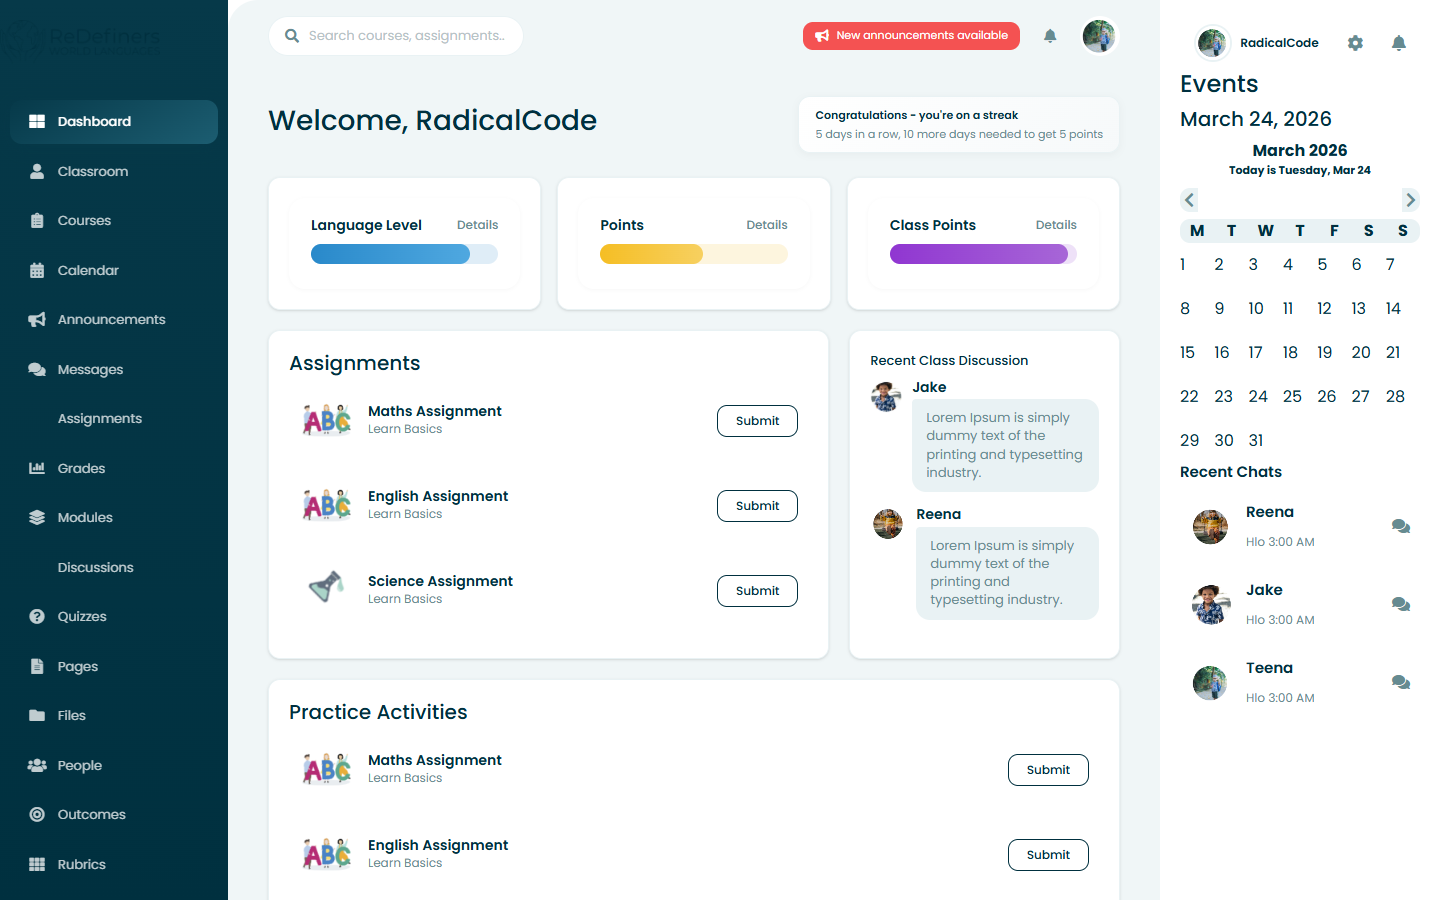
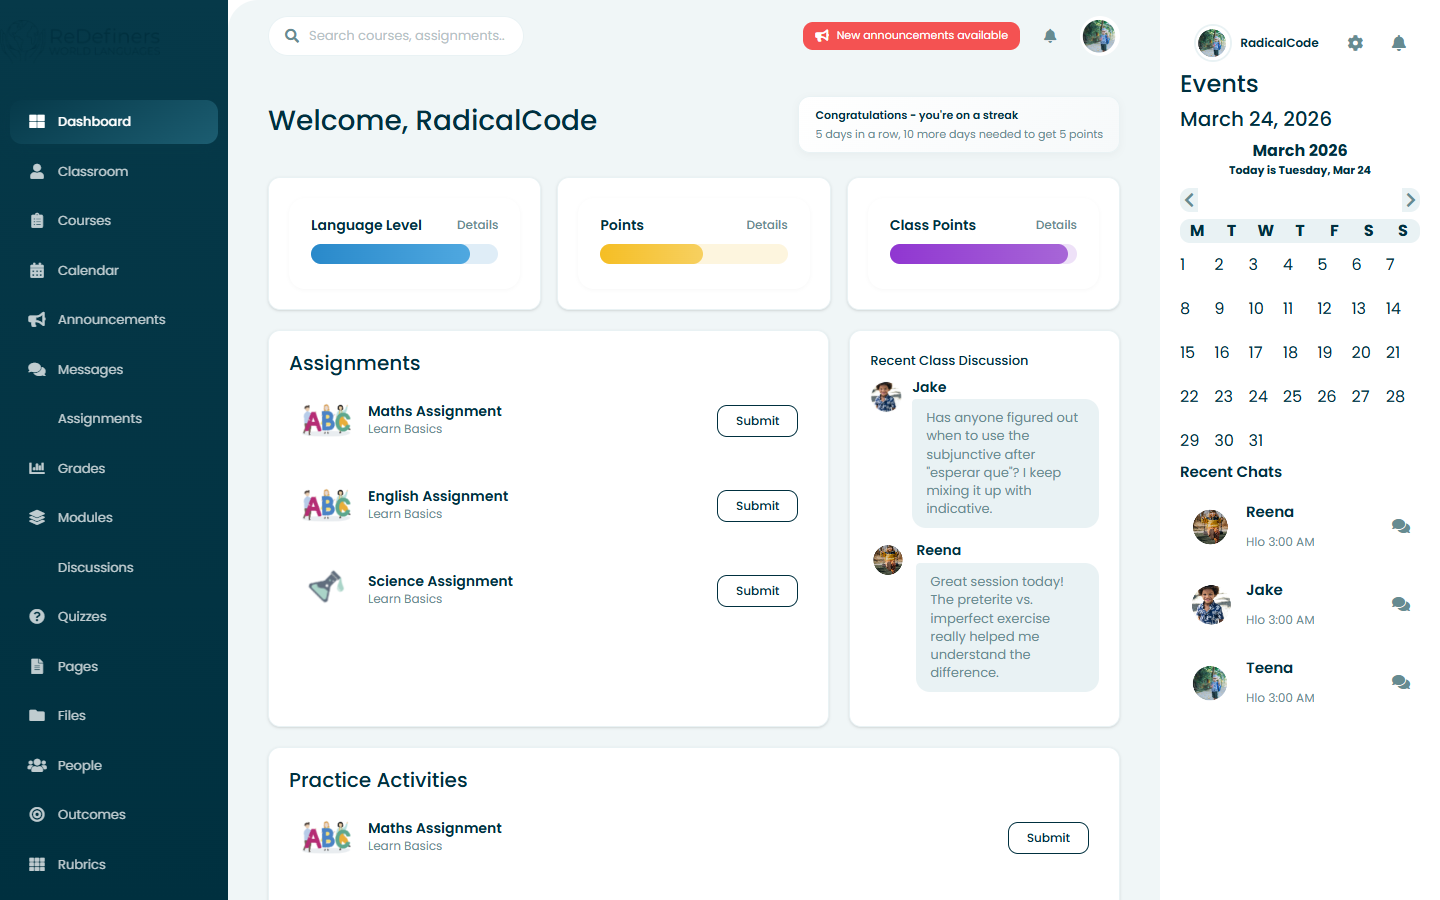
Replace lorem ipsum with meaningful Spanish course content
- Announcements: real course messages (midterm schedule, tutoring,
  guest speaker, grades posted, spring break, study groups, rubric)
- Dashboard discussions: Spanish grammar questions and study tips
- Classroom discussions: listening notes, vocab flashcards, oral exam prep

diff --git a/announcement.html b/announcement.html
@@ -204,13 +204,13 @@
 					</thead>
 					<tr class="table-tr table-tr1">
 						<td class="table-td table-td1" data-label="Message">
-							Lorem Ipsum is simply dummy
+							Midterm exam schedule posted for all Spanish courses
 						</td>
 						<td class="table-td table-td1" data-label="Type">
 							Email
 						</td>
 						<td class="table-td table-td1" data-label="Date">
-							15/02/21
+							03/22/26
 						</td>
 						<td class="table-td table-td1" data-label="Action">
 							<button class="second-color">
@@ -221,13 +221,13 @@
 					</tr>
 					<tr class="table-tr table-tr1 purple-td">
 						<td class="table-td table-td1 tw-text-white" data-label="Message">
-							Lorem Ipsum is simply dummy
+							New tutoring hours available for verb conjugation practice
 						</td>
 						<td class="table-td table-td1 tw-text-white" data-label="Type">
 							Email
 						</td>
 						<td class="table-td table-td1 tw-text-white" data-label="Date">
-							15/02/21
+							03/22/26
 						</td>
 						<td class="table-td table-td1 tw-text-white" data-label="Action">
 							<button class="second-color open-pop tw-border-white tw-bg-white tw-text-[#A766D7] tw-font-bold">
@@ -242,13 +242,13 @@
 					</tr>
 					<tr class="table-tr table-tr1">
 						<td class="table-td table-td1" data-label="Message">
-							Lorem Ipsum is simply dummy
+							Guest speaker confirmed for Cultural Friday session
 						</td>
 						<td class="table-td table-td1" data-label="Type">
 							Email
 						</td>
 						<td class="table-td table-td1" data-label="Date">
-							15/02/21
+							03/22/26
 						</td>
 						<td class="table-td table-td1" data-label="Action">
 							<button class="second-color">
@@ -259,13 +259,13 @@
 					</tr>
 					<tr class="table-tr table-tr1">
 						<td class="table-td table-td1" data-label="Message">
-							Lorem Ipsum is simply dummy
+							Homework 4 graded — check your scores in Grades
 						</td>
 						<td class="table-td table-td1" data-label="Type">
 							Email
 						</td>
 						<td class="table-td table-td1" data-label="Date">
-							15/02/21
+							03/22/26
 						</td>
 						<td class="table-td table-td1" data-label="Action">
 							<button class="second-color">
@@ -276,13 +276,13 @@
 					</tr>
 					<tr class="table-tr table-tr1">
 						<td class="table-td table-td1" data-label="Message">
-							Lorem Ipsum is simply dummy
+							Spring break schedule reminder — no classes Mar 9-13
 						</td>
 						<td class="table-td table-td1" data-label="Type">
 							Email
 						</td>
 						<td class="table-td table-td1" data-label="Date">
-							15/02/21
+							03/22/26
 						</td>
 						<td class="table-td table-td1" data-label="Action">
 							<button class="second-color">
@@ -293,13 +293,13 @@
 					</tr>
 					<tr class="table-tr table-tr1">
 						<td class="table-td table-td1" data-label="Message">
-							Lorem Ipsum is simply dummy
+							Study group forming for Chapter 5 vocabulary review
 						</td>
 						<td class="table-td table-td1" data-label="Type">
 							Email
 						</td>
 						<td class="table-td table-td1" data-label="Date">
-							15/02/21
+							03/22/26
 						</td>
 						<td class="table-td table-td1" data-label="Action">
 							<button class="second-color">
@@ -310,13 +310,13 @@
 					</tr>
 					<tr class="table-tr table-tr1">
 						<td class="table-td table-td1" data-label="Message">
-							Lorem Ipsum is simply dummy
+							Oral presentation rubric updated — please review changes
 						</td>
 						<td class="table-td table-td1" data-label="Type">
 							Email
 						</td>
 						<td class="table-td table-td1" data-label="Date">
-							15/02/21
+							03/22/26
 						</td>
 						<td class="table-td table-td1" data-label="Action">
 							<button class="second-color">

diff --git a/classroom.html b/classroom.html
@@ -391,7 +391,7 @@
 								Jake
 							</h5>
 							<p>
-								Lorem Ipsum is simply dummy text of the printing and typesetting industry.
+								Can someone share their notes from the listening exercise? I missed the part about indirect object pronouns.
 							</p>
 						</div>
 					</div>
@@ -402,7 +402,7 @@
 								Reena
 							</h5>
 							<p>
-								Lorem Ipsum is simply dummy text of the printing and typesetting industry.
+								The vocabulary flashcards for Chapter 4 are really helpful. I scored 90% on the practice quiz using them!
 							</p>
 						</div>
 					</div>
@@ -413,7 +413,7 @@
 								Jake
 							</h5>
 							<p>
-								Lorem Ipsum is simply dummy text of the printing and typesetting industry.
+								Thanks Reena! Also, does anyone want to practice conversation before the oral exam next week?
 							</p>
 						</div>
 					</div>

diff --git a/dashboard.html b/dashboard.html
@@ -308,7 +308,7 @@
 								Jake
 							</h5>
 							<p>
-								Lorem Ipsum is simply dummy text of the printing and typesetting industry.
+								Has anyone figured out when to use the subjunctive after "esperar que"? I keep mixing it up with indicative.
 							</p>
 						</div>
 					</div>
@@ -319,7 +319,7 @@
 								Reena
 							</h5>
 							<p>
-								Lorem Ipsum is simply dummy text of the printing and typesetting industry.
+								Great session today! The preterite vs. imperfect exercise really helped me understand the difference.
 							</p>
 						</div>
 					</div>
